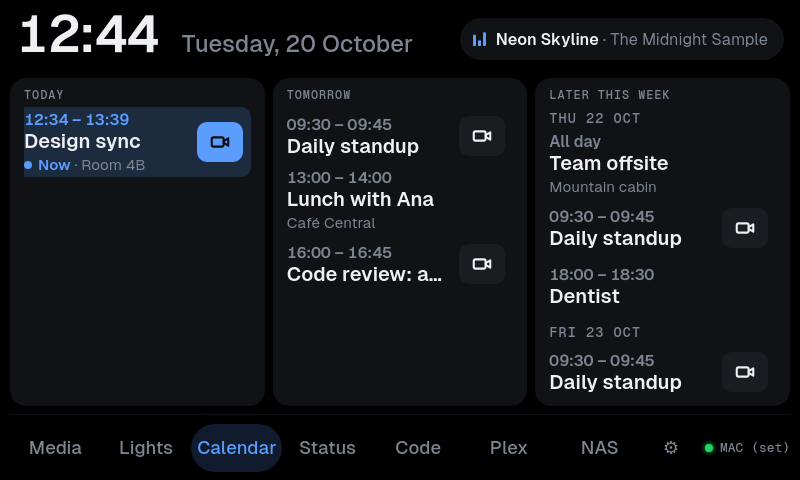
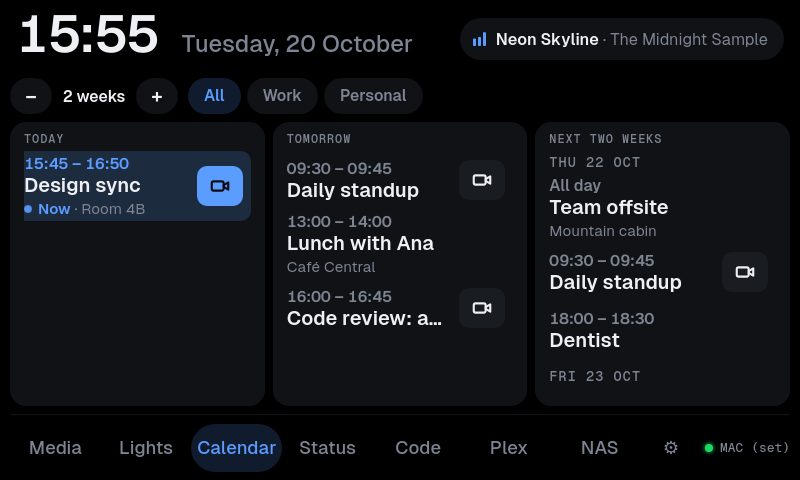
Add a 1 to 4 weeks control to the Calendar page, kept per tab

diff --git a/device/web/index.html b/device/web/index.html
@@ -222,16 +222,22 @@
   .ev-join .emoji { font-size: 20px; }
   .ev-join.down, .ev-join.fire { filter: brightness(1.2); }
   .agenda.cols { display: flex; padding: 0; }
-  /* Tabs above the agenda: All and each calendar, with two calendars or more. They scroll sideways. */
+  /* The bar above the agenda: how many weeks it shows, then tabs for All and each calendar (with
+     two calendars or more; they scroll sideways). The weeks go on the left, away from the dial. */
   .cal-wrap { flex: 1; min-width: 0; min-height: 0; display: flex; flex-direction: column; }
-  .cal-tabs { flex: none; display: flex; overflow-x: auto; margin-bottom: 8px; }
+  .cal-bar { flex: none; display: flex; align-items: center; margin-bottom: 8px; }
+  .cal-tabs { flex: 0 1 auto; min-width: 0; display: flex; overflow-x: auto; }
   .cal-tabs::-webkit-scrollbar { display: none; }
   .cal-tab { flex: none; height: 36px; line-height: 36px; padding: 0 16px; border-radius: 18px; background: var(--tile);
     font-size: calc(14.5px * var(--ts)); font-weight: 600; color: var(--muted); white-space: nowrap; }
   .cal-tab + .cal-tab { margin-left: 6px; }
   .cal-tab.on { background: var(--acc-soft); color: var(--acc); }
   .cal-tab.down { filter: brightness(1.3); }
-  .card .cal-tabs { margin: 2px 0 6px; }
+  .cal-weeks { flex: none; display: flex; align-items: center; margin-right: 10px; }
+  .cal-weeks b { min-width: 84px; text-align: center; font-size: calc(14.5px * var(--ts)); font-weight: 600; }
+  .cal-weeks .cal-tab { width: 42px; padding: 0; text-align: center; font-size: calc(19px * var(--ts)); color: var(--text); }
+  .cal-weeks .cal-tab.off { opacity: .35; }
+  .card .cal-bar { margin: 2px 0 6px; }
   .card .cal-tab { background: var(--tile-hi); }
   .ag-col { flex: 1; min-width: 0; padding: 10px 6px 4px 14px; }
   .ag-col + .ag-col { margin-left: 8px; }
@@ -1445,8 +1451,8 @@ function renderWidgets(page, g) {
     g.style.gridTemplateRows = 'minmax(0, 1fr)';     // the lists scroll inside instead of growing the page
     g.innerHTML = '<div class="dash-wrap"><div class="dash">' + page.widgets.map(function (w) {
       if (w === 'agenda' && page.widgets.length === 1)      // a column per day
-        return '<div class="cal-wrap"><div class="cal-tabs" id="caltabs"></div><div class="agenda cols" id="agenda"></div></div>';
-      if (w === 'agenda') return '<div class="card agenda"><h3>Agenda</h3><div class="cal-tabs" id="caltabs"></div><div class="ag-list" id="agenda"></div></div>';
+        return '<div class="cal-wrap">' + CAL_BAR + '<div class="agenda cols" id="agenda"></div></div>';
+      if (w === 'agenda') return '<div class="card agenda"><h3>Agenda</h3>' + CAL_BAR + '<div class="ag-list" id="agenda"></div></div>';
       if (w === 'monitor') return '<div class="monitor' + (page.widgets.length > 1 ? ' half' : '') + '" id="monitor"></div>';
       if (w === 'github') return '<div class="gh-wrap"><div class="gh-pull" id="ghpull"></div><div class="gh" id="github"></div></div>';
       if (w === 'lights') return '<div class="lights" id="lights"></div>';
@@ -1666,19 +1672,42 @@ function pickedCalendar() {
   var names = agenda.calendars || [], name = st.settings && st.settings.calendar;
   return names.length > 1 && names.indexOf(name) >= 0 ? name : null;
 }
-function updateCalTabs() {
-  var tabs = $('caltabs');
-  if (!tabs) return;
-  var names = agenda.calendars || [], picked = pickedCalendar();
+// How many weeks the agenda shows, 1 to 4, per tab (setting "calendar_weeks", by the calendar's
+// name or '' for All); 2 when none is saved. The device sends 4 weeks of events.
+var CAL_WEEKS = 4, WEEK_WORDS = ['', 'one', 'two', 'three', 'four'];
+var CAL_BAR = '<div class="cal-bar" id="calbar"><div class="cal-weeks" id="calweeks"></div><div class="cal-tabs" id="caltabs"></div></div>';
+function calendarWeeks(picked) {
+  var n = ((st.settings && st.settings.calendar_weeks) || {})[picked || ''];
+  return n >= 1 && n <= CAL_WEEKS ? n : 2;
+}
+function stepWeeks(delta) {
+  var picked = pickedCalendar(), names = agenda.calendars || [], weeks = {}, old = st.settings.calendar_weeks || {};
+  for (var k in old) weeks[k] = old[k];
+  weeks[picked || ''] = Math.max(1, Math.min(CAL_WEEKS, calendarWeeks(picked) + delta));
+  var keys = Object.keys(weeks);
+  if (keys.length > 32) keys.forEach(function (k) { if (k && names.indexOf(k) < 0) delete weeks[k]; });   // the device keeps 64 at most
+  st.settings.calendar_weeks = weeks;      // show it now; the saved state follows
+  updateAgenda();
+  post('/api/settings', { calendar_weeks: weeks });
+}
+function updateCalBar() {
+  var bar = $('calbar');
+  if (!bar) return;
+  bar.style.display = agenda.state === 'ok' ? '' : 'none';
+  var names = agenda.calendars || [], picked = pickedCalendar(), weeks = calendarWeeks(picked), tabs = $('caltabs');
   tabs.style.display = names.length > 1 ? '' : 'none';
-  if (names.length < 2) return;
-  var html = '<div class="cal-tab' + (picked == null ? ' on' : '') + '" data-cal="-1">All</div>' + names.map(function (n, i) {
-    return '<div class="cal-tab' + (n === picked ? ' on' : '') + '" data-cal="' + i + '">' + esc(n) + '</div>';
-  }).join('');
-  if (redraw(tabs, html)) {
-    var on = tabs.querySelector('.on');
-    if (on) on.scrollIntoView({ inline: 'nearest', block: 'nearest' });
+  if (names.length > 1) {
+    var html = '<div class="cal-tab' + (picked == null ? ' on' : '') + '" data-cal="-1">All</div>' + names.map(function (n, i) {
+      return '<div class="cal-tab' + (n === picked ? ' on' : '') + '" data-cal="' + i + '">' + esc(n) + '</div>';
+    }).join('');
+    if (redraw(tabs, html)) {
+      var on = tabs.querySelector('.on');
+      if (on) on.scrollIntoView({ inline: 'nearest', block: 'nearest' });
+    }
   }
+  redraw($('calweeks'), '<div class="cal-tab' + (weeks <= 1 ? ' off' : '') + '" data-weeks="-1">−</div>' +
+    '<b>' + weeks + (weeks === 1 ? ' week' : ' weeks') + '</b>' +
+    '<div class="cal-tab' + (weeks >= CAL_WEEKS ? ' off' : '') + '" data-weeks="1">+</div>');
 }
 function pickCalendar(i) {
   var name = i >= 0 ? (agenda.calendars || [])[i] : null;
@@ -1689,22 +1718,22 @@ function pickCalendar(i) {
 function updateAgenda() {
   var box = $('agenda');
   if (!box) return;
-  updateCalTabs();
-  var cols = box.classList.contains('cols'), picked = pickedCalendar(), names = agenda.calendars || [];
+  updateCalBar();
+  var cols = box.classList.contains('cols'), picked = pickedCalendar(), names = agenda.calendars || [], weeks = calendarWeeks(picked);
   var now = Date.now(), today = dayNumber(now), events = (agenda.events || []).filter(function (e) {
-    return e.end > now && (picked == null || names[e.cal] === picked);
+    return e.end > now && (picked == null || names[e.cal] === picked) && dayNumber(Math.max(e.start, now)) - today < weeks * 7;
   });
   var html = '', day = null, next = null;
   for (var i = 0; i < events.length && !next; i++) if (!events[i].all_day) next = events[i];
   if (cols && events.length) {
-    // Today | Tomorrow | the rest of the two weeks, each a card that scrolls on its own.
+    // Today | Tomorrow | the rest of the weeks shown, each a card that scrolls on its own.
     var parts = ['', '', ''], laterDay = null;
     events.forEach(function (e) {
       var d = dayNumber(Math.max(e.start, now)), c = Math.min(2, d - today);
       if (c === 2 && d !== laterDay) { laterDay = d; parts[2] += '<div class="ag-day">' + dayLabel(Math.max(e.start, now)) + '</div>'; }
       parts[c] += eventHTML(e, e === next, true);
     });
-    var titles = ['Today', 'Tomorrow', 'Next two weeks'];
+    var titles = ['Today', 'Tomorrow', weeks === 1 ? 'Later this week' : 'Next ' + WEEK_WORDS[weeks] + ' weeks'];
     html = parts.map(function (p, c) {
       return '<div class="card ag-col"><h3>' + titles[c] + '</h3><div class="ag-list">' +
         (p || '<div class="ag-empty">' + (c === 0 ? 'Nothing else today' : 'Nothing planned') + '</div>') + '</div></div>';
@@ -1718,7 +1747,7 @@ function updateAgenda() {
   if (!events.length) {
     if (agenda.state === 'none') html = stateCard('Calendar', 'No calendar yet', 'Put your Google Calendar’s secret iCal address in calendars.txt on the computer (see README).');
     else if (agenda.error) html = stateCard('Calendar', 'Couldn’t get the calendar', agenda.error);
-    else if (agenda.state === 'ok') html = stateCard('Calendar', 'Nothing coming up', 'No events' + (picked ? ' in ' + picked : '') + ' in the next 14 days.');
+    else if (agenda.state === 'ok') html = stateCard('Calendar', 'Nothing coming up', 'No events' + (picked ? ' in ' + picked : '') + ' in the next ' + weeks * 7 + ' days.');
     else html = agentCard('Calendar', 'your calendar');
   }
   if (box.innerHTML !== html) {
@@ -2329,7 +2358,7 @@ document.addEventListener('pointerdown', function (e) {
   startX = e.clientX; startY = e.clientY;
   startInBar = !!e.target.closest('#bar, .cal-tabs');
   startOnSlider = !!e.target.closest('[data-hue-bar], [data-hue-lbar]');   // dragging a light's brightness, not swiping
-  downEl = e.target.closest('.tile[data-i], .preset[data-i], #dial, .tab, #status, [data-set], [data-sys], [data-sec], [data-media], [data-join], [data-guard], [data-kill], [data-ev], [data-sheet-close], [data-sheet-card], [data-audio], [data-audio-dev], [data-gh], #tabmore, [data-hue-room], [data-hue-toggle], [data-hue-ltoggle], [data-hue-scene], [data-hue-alloff], [data-hue-pair], [data-hue-bar], [data-hue-lbar], [data-tab-move], [data-tabs-reset], [data-tab-hide], [data-goto-media], [data-rm-join], [data-rm-dismiss], [data-cal]');
+  downEl = e.target.closest('.tile[data-i], .preset[data-i], #dial, .tab, #status, [data-set], [data-sys], [data-sec], [data-media], [data-join], [data-guard], [data-kill], [data-ev], [data-sheet-close], [data-sheet-card], [data-audio], [data-audio-dev], [data-gh], #tabmore, [data-hue-room], [data-hue-toggle], [data-hue-ltoggle], [data-hue-scene], [data-hue-alloff], [data-hue-pair], [data-hue-bar], [data-hue-lbar], [data-tab-move], [data-tabs-reset], [data-tab-hide], [data-goto-media], [data-rm-join], [data-rm-dismiss], [data-cal], [data-weeks]');
   if (downEl) downEl.classList.add('down');
 });
 document.addEventListener('pointercancel', function () { if (downEl) downEl.classList.remove('down'); downEl = null; });
@@ -2359,6 +2388,7 @@ document.addEventListener('pointerup', function (e) {
   else if (el.hasAttribute('data-tab-hide')) toggleTab(el.getAttribute('data-tab-hide'));
   else if (el.hasAttribute('data-goto-media')) gotoMedia();
   else if (el.hasAttribute('data-cal')) pickCalendar(parseInt(el.getAttribute('data-cal'), 10));
+  else if (el.hasAttribute('data-weeks')) stepWeeks(parseInt(el.getAttribute('data-weeks'), 10));
   else if (el.hasAttribute('data-rm-join')) {
     var ev = reminderEvent;
     fire(el);

diff --git a/device/macropad.py b/device/macropad.py
@@ -711,8 +711,9 @@ class HostHue:
         self.ui.publish('hue_dial', {'room': room['id']})
 
 
-AGENDA_DAYS = 14        # today and the next days
-AGENDA_MAX = 160        # events sent to the UI
+AGENDA_WEEKS = 4        # the most the Calendar page shows (its weeks button: 1 to 4)
+AGENDA_DAYS = AGENDA_WEEKS * 7      # today and the next days
+AGENDA_MAX = 300        # events sent to the UI
 EPOCH = datetime.datetime(1970, 1, 1)
 
 
@@ -1010,6 +1011,7 @@ class Pad:
         # None means "use config.json".
         self.settings = {'os_mode': 'auto', 'layout': None, 'dial_invert': None,
                          'brightness_auto': True, 'brightness': 180, 'brightness_stops': 0, 'calendar': None,
+                         'calendar_weeks': {},
                          'theme': 'dark', 'accent': 'theme',
                          'clock_24h': True, 'icon_style': None,
                          'icon_color': None, 'page_order': [], 'page_hidden': [], 'page_shown': []}
@@ -1072,6 +1074,9 @@ class Pad:
             'brightness': lambda v: isinstance(v, int) and BRIGHTNESS_MIN <= v <= 255,
             'brightness_stops': lambda v: type(v) in (int, float) and abs(v) <= BRIGHTNESS_STOPS and v * 2 == int(v * 2),
             'calendar': lambda v: v is None or (isinstance(v, str) and len(v) <= 200),     # the Calendar page's tab; None: all
+            # Weeks the Calendar page shows, per tab: a calendar's name, or '' for All.
+            'calendar_weeks': lambda v: isinstance(v, dict) and len(v) <= 64 and all(
+                isinstance(k, str) and len(k) <= 200 and type(n) is int and 1 <= n <= AGENDA_WEEKS for k, n in v.items()),
         }
         if key not in valid or not valid[key](value):
             raise ValueError('bad setting %s=%r' % (key, value))

diff --git a/device/README.md b/device/README.md
@@ -203,13 +203,15 @@ BYMONTH, BYSETPOS), EXDATE, RDATE, RECURRENCE-ID (moved or cancelled occurrences
 and events the calendar's owner declined (a Google feed's name is the owner's address).
 One-off events that ended before today are skipped while reading: a 4 MB feed takes
 about 2 s on the Car Thing. `Agenda` lists the events from local midnight
-to 14 days later, recomputes every 5 minutes and when the UTC offset changes, and
+to 28 days later (`AGENDA_WEEKS`, the most the page shows), recomputes every 5 minutes and when the UTC offset changes, and
 sends `agenda` events. All-day and floating times use the computer's UTC offset.
 An `agenda` event also has `calendars`: a name for each calendar, by the events' `cal`
 index (its `X-WR-CALNAME`, "Calendar 2" without one, and the number added to a name used
 twice). With two names or more, the page shows tabs above the agenda: All and each name.
 The tab is the setting `calendar` (a name, or `null` for All) in `state.json`. A name
-that is not in `calendars` shows All. The tabs filter only the page: reminders come from
+that is not in `calendars` shows All. On the left of the bar, − and + set how many weeks
+the page shows, 1 to 4 (2 when none is saved), for each tab: the setting `calendar_weeks`,
+`{"<name>" or "" for All: weeks}`. The page filters the 4 weeks the device sends. The tabs filter only the page: reminders come from
 every calendar.
 
 **Join:** the UI posts `POST /api/calendar/open` with an event id; only events with

diff --git a/README.md b/README.md
@@ -167,13 +167,14 @@ them to the Car Thing **over the USB cable** (`adb forward`; no network):
   colors, with round media controls under the progress bar. When nothing is playing
   it says so; the controls work either way.
 - **Calendar:** the Calendar page shows today, tomorrow and the rest of the next two weeks
-  from your calendars (see [Adding your calendar](#adding-your-calendar)): repeating
+  (− and + at the top left show 1 to 4 weeks) from your calendars (see [Adding your calendar](#adding-your-calendar)): repeating
   events, moved or cancelled occurrences and time zones included, meetings you
   declined left out. The next event is highlighted with a countdown. Events with a
   Google Meet, Zoom or Teams link get a Join button that opens the link on the computer.
   Tap an event for its details: date, time and length, place, calendar and notes.
   With two calendars or more, tabs at the top show **All** or one calendar. The Car
-  Thing keeps the tab you pick; if that calendar is gone, it shows All.
+  Thing keeps the tab you pick, and the number of weeks for each tab. If the picked
+  calendar is gone, it shows All.
   Five minutes before any timed event in any calendar, a reminder card comes up on any page with a
   countdown and **Dismiss**, plus **Join meeting** for a meeting with a link or
   **Details** for anything else; it stays until two minutes after the start.
